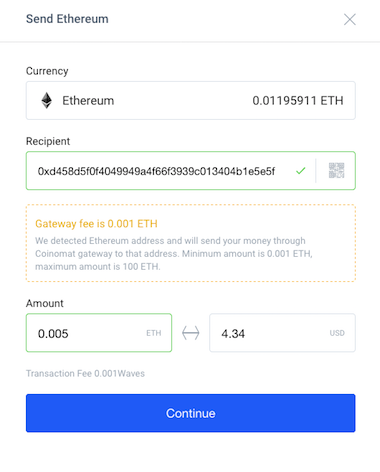
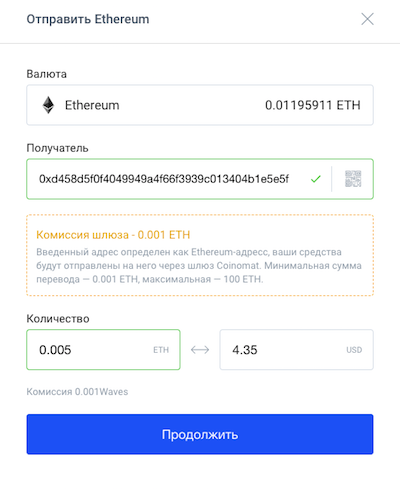
Updates

diff --git a/ru/waves-client/transfers-and-gateways/ethereum-transfers.md b/ru/waves-client/transfers-and-gateways/ethereum-transfers.md
@@ -1,59 +1,69 @@
-# How to receive and send Ethereum
+# **Как отправить и получить Ethereum**.
 
-Waves allow you to hold and transfer Ethereum on its blockchain. This works through a so-called Multigateway approach: Ethereum sent to a user's deposit address available in the Waves wallet and after the deposit the user receives a Ethereum token \(wETH\) on the Waves blockchain. Every single Ethereum token is backed 1:1 with a real Ethereum.
+Waves client позволяет хранить и переводить Ethereum внутри сети Waves. Это возможно благодаря шлюзу: Ethereum поступают на Ethereum адрес выданный пользователю в Waves client, а взамен пользователь получает ассет Ethereum в сети Waves (wETH). При выводе wETH из сети Waves пользователь получает Ethereum из расчета 1:1.
 
-Read more about [What is a payment gateway?](/frequently-asked-questions-faq/transfers-and-gateways/payment-gateway.md)
+Всю исчерпывающую информацию о работе Bitcoin шлюза вы найдёте в этой статье [Что такое платежный шлюз](/ru/frequently-asked-questions-faq/transfers-and-gateways/payment-gateway.md)
 
-## How to deposit Ethereum
+## **Как получить Ethereum**.
 
-Open your Waves wallet  
-In the Ethereum section, click on the **Receive** button.
+Откройте свой Waves кошелек и в секции Ethereum нажмите **Получить**.
 
-![](/_assets/ethereum_transfers_01.png)
+![](/ru/_assets/ethereum_transfers_01.png)
 
-The following pop-up will appear.  
-Copy the shown Ethereum address or Scan QR Code and send a payment.  
-Read the conditions carefully in yellow boxes before proceeding.
+В появившемся окне вы увидите Ethereum адрес.
+Используйте его в качестве адреса получателя, чтобы ввести Ethereum в свой Waves аккаунт.
+А также вы можете просканировать QR-код, в котором зашифрован этот Ethereum адрес.
+Перед этим внимательно прочитайте условия ввода Ethereum, которые выделены жёлтой пунктирной линией.
 
-![](/_assets/ethereum_transfers_02.png)
+![](/ru/_assets/ethereum_transfers_02.png)
 
-**Note**: Processing can take up to 120 minutes.
+**Внимание**: процесс ввода ETH в ваш Waves аккаунт может занять до 120 минут.
 
-# **How to send Ethereum**
+## **Как отправить Ethereum**.
 
-Open your Waves wallet,  
-In the Ethereum section, click on the **Send** button.
+Откройте ваш Waves кошелек и в Ethereum секции нажмите **Отправить**.
 
-![](/_assets/ethereum_transfers_01.png)
+![](/ru/_assets/ethereum_transfers_01.png)
 
-The following pop-up will appear.  
-Paste the Ethereum address you want to send to as well as the amount of Ethereum.  
-Please note that the gateway charges 0.001 ETH for the gateway fee as well as 0.001 Waves for the network fee.
+В появившемся окне введите:
 
-After you have filled the form, click on the **Continue** button.
+- в строку Получатель Ethereum адрес получателя;
+- в строку Количество сумму Ethereum, которую вы хотите отправить на Ethereum адрес Получателя.
 
-![](/_assets/ethereum_transfers_04.png)
+**Будьте внимательны**: комиссия Ethereum шлюза за обработку транзакции составляет 0,001 ETH, а комиссия сети Waves за проведение транзакции составляет 0,001 Waves.
+Внимательно прочитайте условия вывода Ethereum, которые выделены жёлтой пунктирной линией.
 
-The following pop-up will appear.  
-To complete the operation, click on the **Confirm** or **Back** to repeat the process.
+После заполнения всех строк и прочтения условия нажмите **Продолжить**.
 
-![](/_assets/ethereum_transfers_05.png)
+![](/ru/_assets/ethereum_transfers_04.png)
 
-**Note**: Processing can take up to 120 minutes, the minimum amount is 0.005 ETH.
+Ещё раз проверьте данные транзакции в появившемся окне.
 
-## How to create internal transaction through Waves network
+Если все данные верны нажмите **Подтвердить**. Для корректировки данных нажмите **Назад**.
 
-You can send Ethereum directly to another Waves account, just use the recipient Waves address, click on Send and fill-in the sending form.
+![](/ru/_assets/ethereum_transfers_05.png)
 
-**Note.** The network fee is only 0.001 Waves \(no gateway fee\)
+**Внимание**: процесс вывода Ethereum из Waves аккаунта может занять до 120 минут.
 
-![](/_assets/ethereum_transfers_01.png)
+## **Как перевести Bitcoin в другой Waves аккаунт**.
 
-After you have completed the form, click on the **Continue** button.
+Откройте ваш Waves кошелек и в Ethereum секции нажмите **Отправить**.
 
-![](/_assets/ethereum_transfers_07.png)
+![](/ru/_assets/ethereum_transfers_01.png)
 
-The following pop-up will appear.  
-To complete the operation, click on the **Confirm** or **Back** to repeat the process.
+В появившемся окне введите:
 
-![](/_assets/ethereum_transfers_08.png)
+- в строку Получатель Waves адрес получателя;
+- в строку Количество сумму Ethereum, которую вы хотите отправить на Waves адрес Получателя.
+
+Будьте внимательны: комиссия сети Waves за проведение транзакции составит 0,001 Waves.
+
+После заполнения всех строк нажмите **Продолжить**.
+
+![](/ru/_assets/ethereum_transfers_07.png)
+
+Ещё раз проверьте данные транзакции в появившемся окне.
+
+Если все данные верны нажмите **Подтвердить**. Для корректировки данных нажмите **Назад**.
+
+![](/ru/_assets/ethereum_transfers_08.png)
